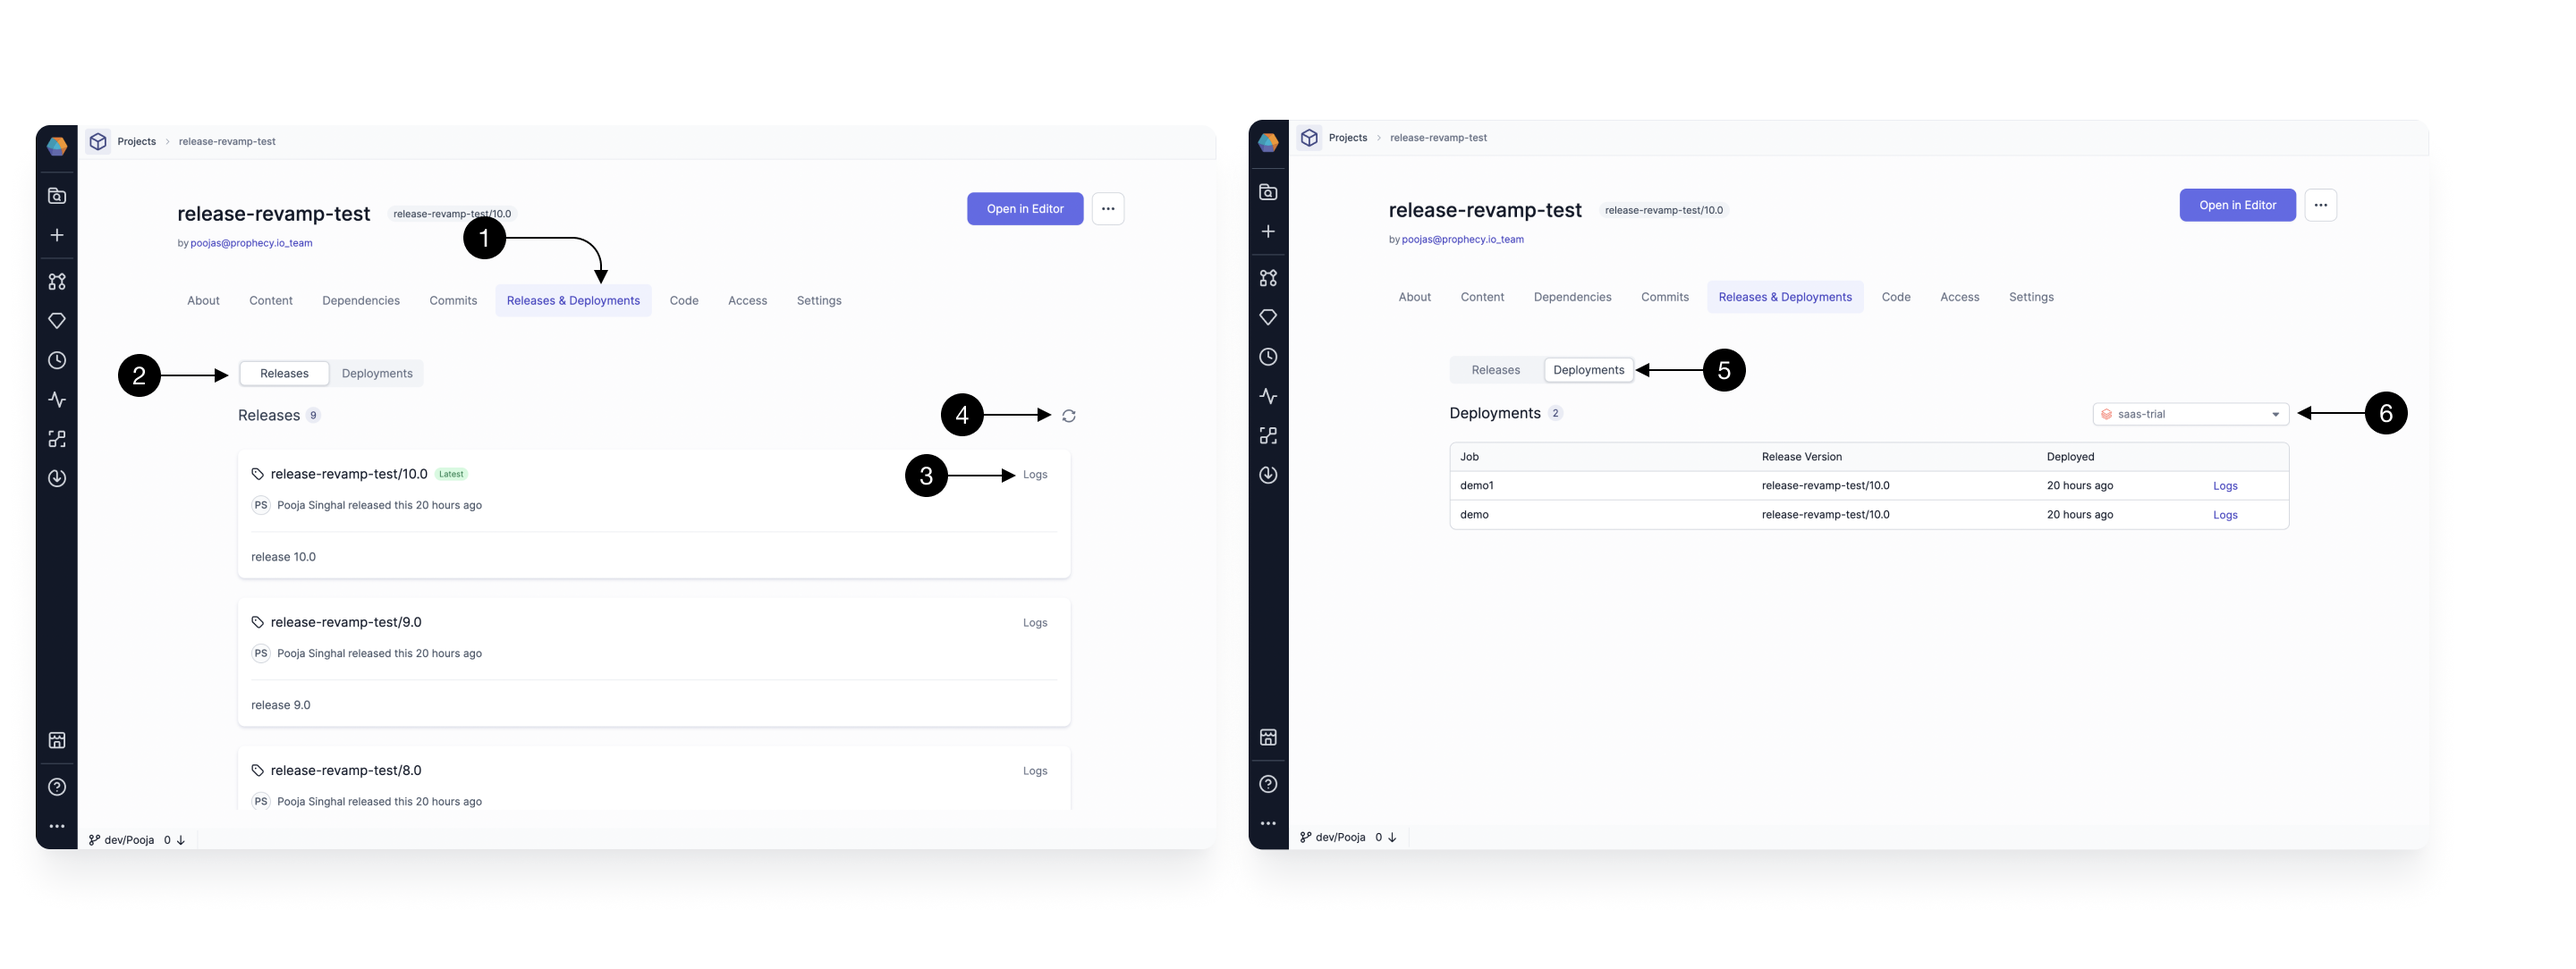
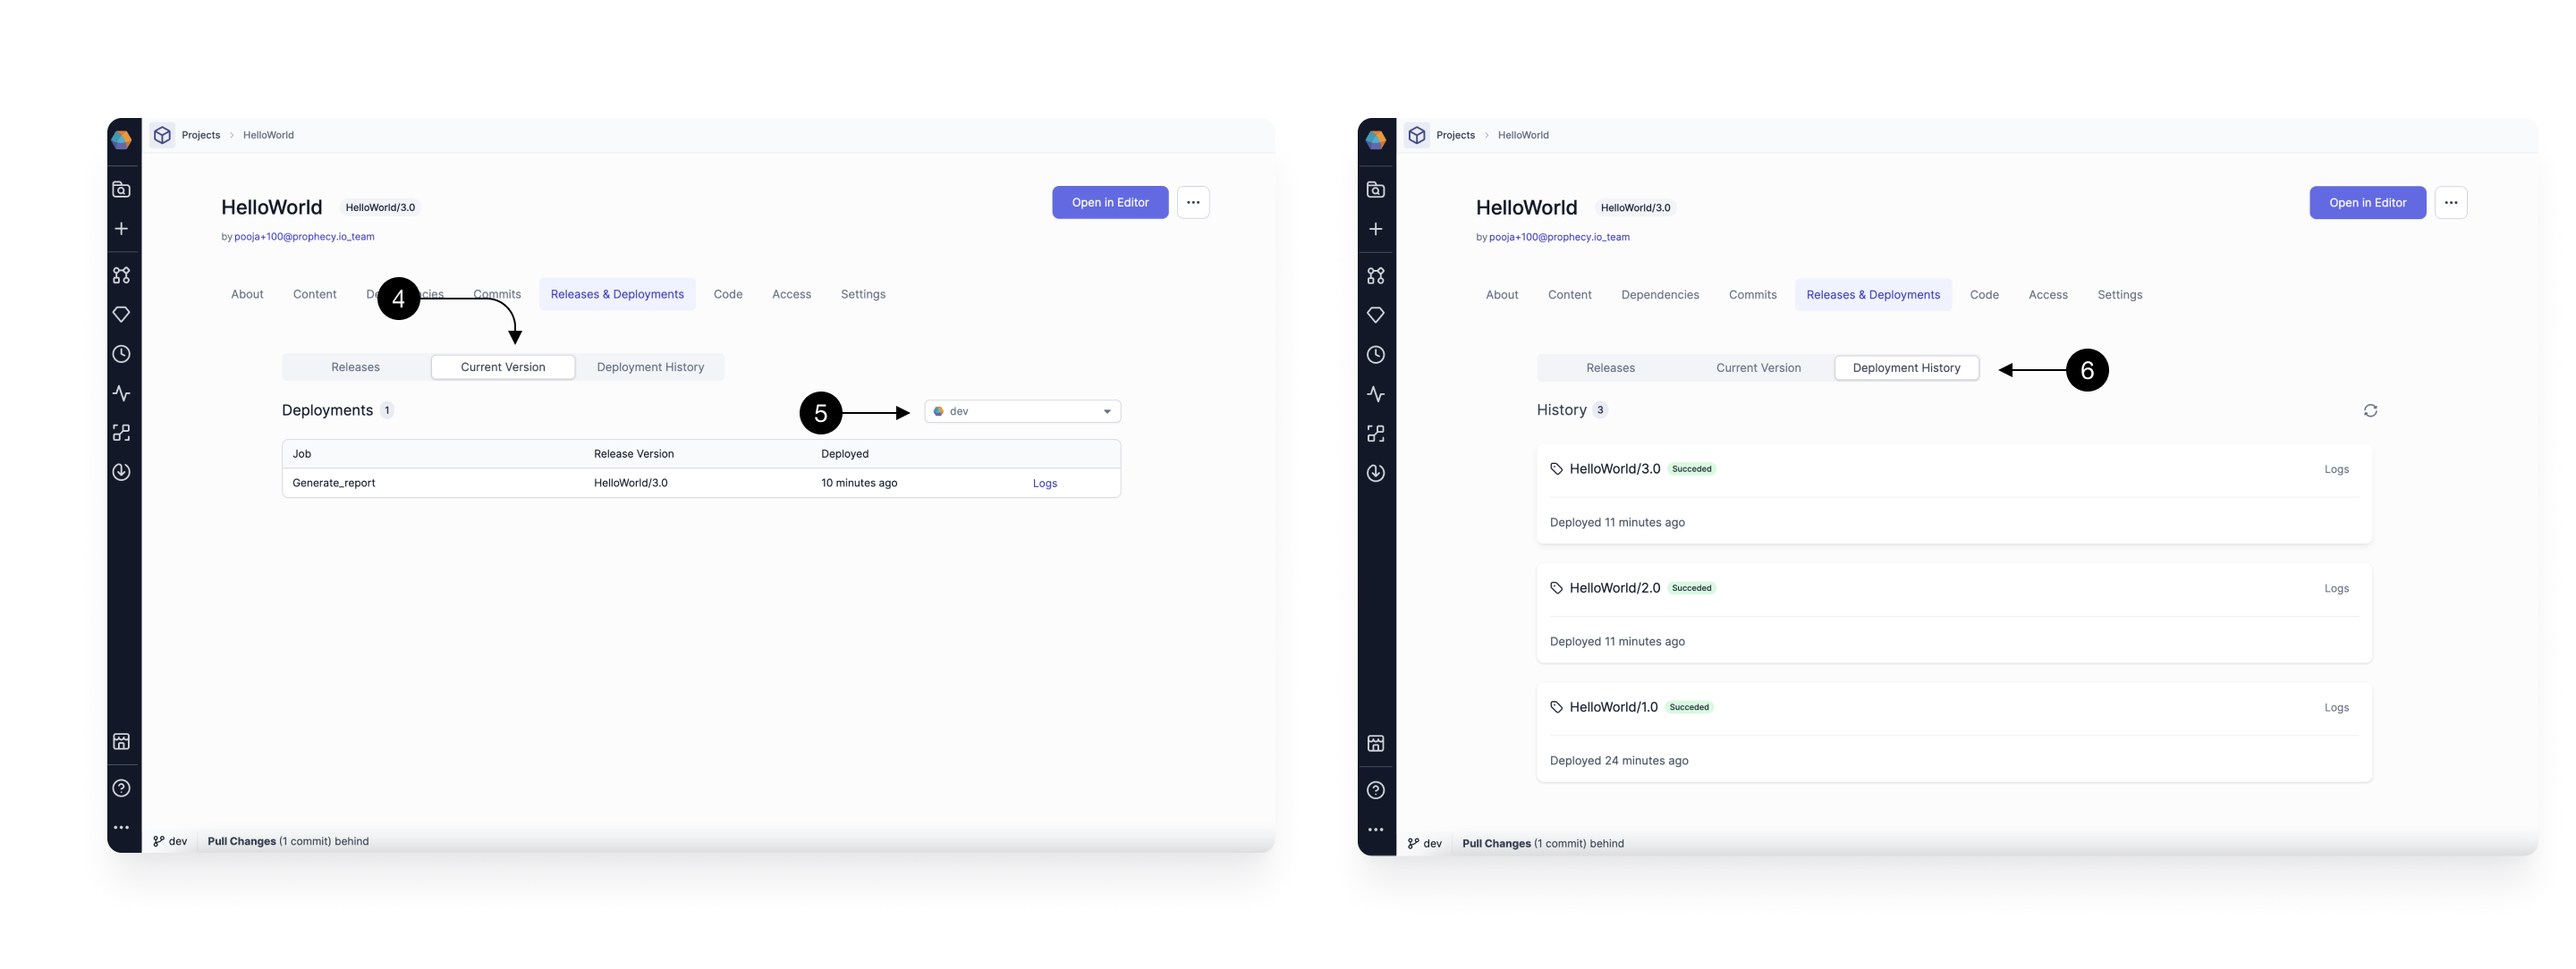
Updating docs for deploy history

diff --git a/docs/releases-and-deployment/releases-and-deployment.md b/docs/releases-and-deployment/releases-and-deployment.md
@@ -112,20 +112,20 @@ Enabling unit tests might lead to a slight increase the Build time
 
 ## Releases and Deployment History
 
-Click on **(1) Releases and Deployments** tab in the Project Metadata to access the release history and the currently deployed Jobs.
+Click on **(1) Releases and Deployments** tab in the Project Metadata to access the history and the currently deployed Jobs.
 
-![Releases_and_deployments](img/Release_Deployment_history.png)
+![Releases_and_Deployments](img/Release_&_Deployments.png)
 
 ### Releases
 
 In the **(2) Releases** tab, you'll find a list of all tags, who created them, when they were created, and the latest tag. It also provides **(3) logs** of the latest deployment associated with that tag.
 
-You can even use the **(4) Refresh** icon to pull release tags created outside of Prophecy directly into your Git.
+![Releases_and_deployments](img/Release_Deployment_history.png)
 
-### Deployments
+### Current Version
 
-In the **(5) Deployments** tab, you can view the current state of all deployed Jobs per environment. Select the **(6) Fabric** environment you want to see the deployed Jobs for, and it will list all the Jobs deployed in that environment, along with their versions and deployment logs.
+In the **(4) Current Version** tab, you can view the current state of all deployed Jobs per environment. Select the **(5) Fabric** environment you want to see the deployed Jobs for, and it will list all the Jobs deployed in that environment, along with their versions and deployment logs.
 
-:::note
-Coming soon: We'll soon be adding a way to view the history of all deployments triggered by any user, including logs for any failed deployments.
-:::
+### Deployment History
+
+In **(6) Deployment History** tab, you can view the history of all past deployments, along with the time at it was deployed and logs.
